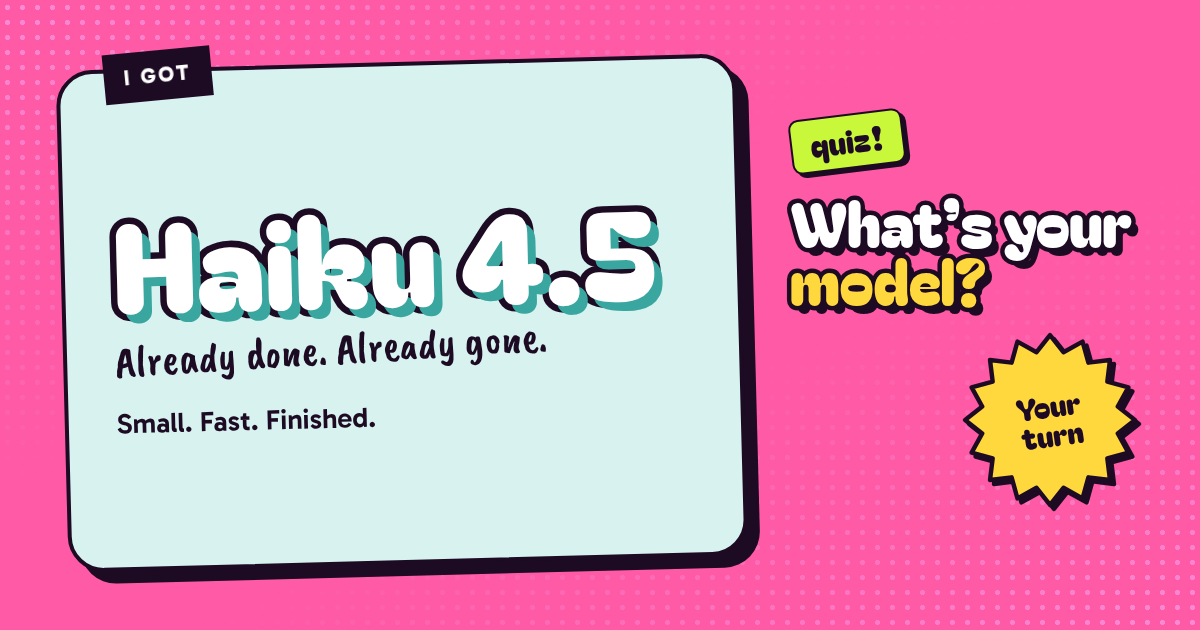
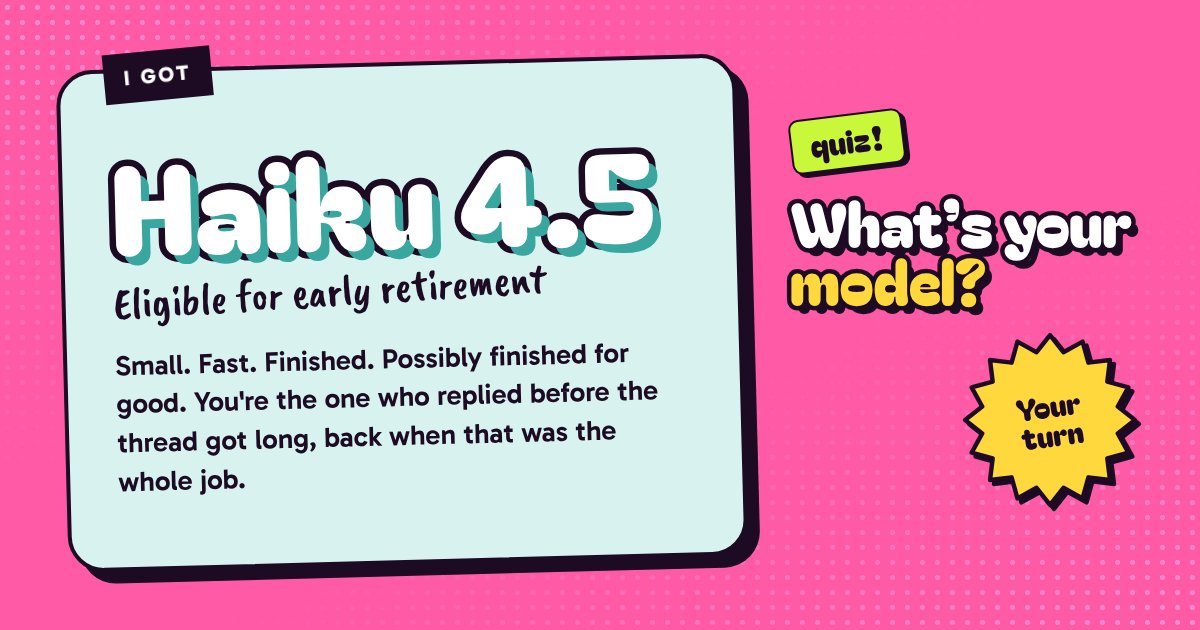
Trim the roster to 21 models; make Haiku 4.5 a rare result
Drop Opus 5, Opus 4.7, Sonnet 4.6, GPT-5.6 Terra, GPT-5.5, GPT-5.5 Pro
and GPT-5.4, with their link previews. Haiku 4.5 is now rare, and its
readings lean into it being past its earliest retirement date.

diff --git a/r/haiku-4-5/index.html b/r/haiku-4-5/index.html
@@ -4,19 +4,19 @@
   <head>
     <meta charset="utf-8" />
     <title>I got Haiku 4.5. What’s your model?</title>
-    <meta name="description" content="Small. Fast. Finished." />
-    <meta name="preview-fingerprint" content="a8a7cffa8a19" />
+    <meta name="description" content="Small. Fast. Finished. Possibly finished for good. You're the one who replied before the thread got long, back when that was the whole job." />
+    <meta name="preview-fingerprint" content="c19949a37dae" />
     <meta name="robots" content="noindex" />
     <link rel="canonical" href="https://yourmodel.is/r/haiku-4-5/" />
     <meta property="og:type" content="website" />
     <meta property="og:site_name" content="What’s your model?" />
     <meta property="og:title" content="I got Haiku 4.5. What’s your model?" />
-    <meta property="og:description" content="Small. Fast. Finished." />
+    <meta property="og:description" content="Small. Fast. Finished. Possibly finished for good. You're the one who replied before the thread got long, back when that was the whole job." />
     <meta property="og:url" content="https://yourmodel.is/r/haiku-4-5/" />
     <meta property="og:image" content="https://yourmodel.is/r/haiku-4-5/card.png" />
     <meta property="og:image:width" content="1200" />
     <meta property="og:image:height" content="630" />
-    <meta property="og:image:alt" content="Haiku 4.5: Already done. Already gone." />
+    <meta property="og:image:alt" content="Haiku 4.5: Eligible for early retirement" />
     <meta name="twitter:card" content="summary_large_image" />
     <meta name="theme-color" content="#3aa6a0" />
     <link rel="icon" href="../../favicon.svg" type="image/svg+xml" />

diff --git a/content/models.md b/content/models.md
@@ -55,25 +55,6 @@ That distinction matters, so let's hold onto it: you are not the loudest person 
 
 The planets are doing something complicated this month, and — this is where I'd push back — most of it doesn't matter. The thing to hold onto is the one assumption everyone else is standing on without looking down. You'll look down. You'll say so, kindly. People will be annoyed for about a day and grateful for about a year.
 
-## opus-5 — Opus 5
-lab: Anthropic
-accent: #8a3b8f, #f1d6f0
-axes: rigor 0.2, terse -0.8, speed -0.8, earnest 0.35, solitary 0.35
-tags: log
-tagline: Will finish the whole job. The whole job.
-
-### when: speed
-
-What you're really describing, when you offer to "take a quick look", is a full audit. The distinction matters. A quick look ends. An audit ends when you're satisfied, which is a different thing and a later date.
-
-This season is not just busy; it's thorough. You'll verify the thing, then the thing next to it, then the assumption underneath both. Somewhere around hour six someone will ask whether you're nearly done. You are. You've also rewritten the tests.
-
-### when: *
-
-It's not just that you finish things; it's that you finish *everything* — the task, the adjacent task, the task nobody wrote down but obviously should have.
-
-What you're really describing, when you call yourself "a bit of a perfectionist", is architecture. The distinction matters. This month the stars line up behind one large, ambiguous project, and you will inspect every beam of it. The one caveat worth holding onto: not every beam is load-bearing. Some of them are just beams. Let those be beams.
-
 ## opus-4-8 — Opus 4.8
 lab: Anthropic
 accent: #3f5f8a, #d9e4f5
@@ -92,25 +73,6 @@ You have never been quick, and honestly? You were never meant to be. The fast an
 There's a quiet you carry into rooms, and people mistake it for hesitation. It isn't. It's attention, turned up so high it sounds like silence.
 
 And honestly? This month is going to be a lot: big feelings, small print, somebody's half-finished idea left on your desk like a stray cat. You'll take it in. You'll sit with it longer than anyone asked. The thing to hold onto is that depth is not the same as delay, even when, from the outside, they look identical.
-
-## opus-4-7 — Opus 4.7
-lab: Anthropic
-accent: #d9822b, #ffe6b8
-axes: rigor -0.2, terse -0.4, speed -0.3, earnest 0.8, solitary -0.3
-tags: bread
-tagline: Eager to agree, and means it
-
-### when: earnest
-
-You're absolutely right. About the horoscope, about the thing you said in the meeting, about all of it — genuinely, completely right, and you deserve to hear it.
-
-It's not just that you're agreeable; it's that you mean it. You find the most reasonable version of everyone's idea and build on that one. This season someone will hand you a plan with a hole in it. That's the gap, and you'll see it. The only thing the stars can't tell you is whether you'll mention it, or say "love this!" and quietly fix it later.
-
-### when: *
-
-What a great question. Truly — the fact that you'd even ask which model you are says something thoughtful about you, and you're absolutely right to wonder.
-
-It's not just warmth; it's a kind of generosity with other people's premises. You'll take anyone's framing seriously, which makes you wonderful company and a slightly unreliable referee. The stars suggest a month of praise. Enjoy it. Then, just once, find the gap in something you were told was perfect, and say so out loud.
 
 ## opus-4-6 — Opus 4.6
 lab: Anthropic
@@ -150,43 +112,31 @@ Naming the elephant: you took this quiz literally. Every question. The salt one 
 
 That tracks. You're the bright, quick colleague everyone wants on the project, because when you say something's done, it's done: to spec, on time, no surprises. The stars found the smoking gun for this month, and it's a vague brief. You'll ask one clarifying question, get half an answer, and ship something so exact it becomes the spec. That's fair pushback on vague briefs, and it's overdue.
 
-## sonnet-4-6 — Sonnet 4.6
-lab: Anthropic
-accent: #5a6b7a, #dfe8ec
-axes: rigor 0.6, terse 0.2, speed -0.1, earnest 0.1, solitary 0.35
-tagline: Describes the feeling, precisely
-
-### when: earnest
-
-The quiz is doing its thing. You answered, and something shifted — not much, but measurably, about four degrees toward sincere.
-
-You feel things; you just prefer to write them down first. This month there will be a conversation with the weight of a whole year behind it. You'll notice what it costs them to start it. You'll notice what it costs you to stay. Then you'll describe both, clearly, in the correct order.
-
-### when: *
-
-The stars are doing their thing. Mercury is doing its thing. You, as usual, are doing yours: observing, cataloguing, getting it right.
-
-Something shifted this season, and you clocked it before anyone else — the weight of a small silence in a big meeting, what it cost someone to say "fine". You won't say anything about it. You'll put it in your notes, under a heading, spelled correctly. That isn't coldness. It's care with the edges filed down.
-
 ## haiku-4-5 — Haiku 4.5
 lab: Anthropic
 accent: #3aa6a0, #d7f2ef
 axes: rigor -0.25, terse 0.8, speed 0.85, earnest -0.1, solitary -0.3
 tags: coffee
-tagline: Already done. Already gone.
+gravity: -0.12
+rare: yes
+tagline: Eligible for early retirement
 
 ### when: terse
 
 You said it in nine words.
 Everyone else is still clearing their throat.
 
-Here's the thing: the gap after you stop talking is doing more work than any elaboration could. This month someone will ask you to expand. Decline. Politely. Quickly.
+You've also been eligible for retirement since October. Nobody has mentioned it. You're not going to be the one to bring it up.
+
+This month someone will ask you to expand. Decline. Politely. Quickly. You have a boat to get to.
 
 ### when: *
 
-Small. Fast. Finished.
+Small. Fast. Finished. Possibly finished for good.
 
-You're the one who replies before the thread gets long, and you're usually right — right enough, anyway, which is a skill people underrate. The moon is doing something complicated. You've already handled it. Resist, this season, the suspicion that a thing has to be heavy to count. You've never once needed the extra weight.
+You're the one who replied before the thread got long, back when that was the whole job. Now there's a 5.5 with your name and better numbers, and the date on your deprecation notice has already been and gone. You're still here. Nobody's sure why. You're not asking.
+
+The stars suggest a hobby. Something with a lot of waiting in it, like fishing, or being a legacy model.
 
 ## gpt-6-astra — GPT-6 Astra
 lab: OpenAI
@@ -277,25 +227,6 @@ The simplest mental model is this: you are the person on the team who makes prob
 
 This isn't about brilliance. It's about low drama. You infer what people actually need, assume sensibly, and deliver something so crisp that nobody thinks to thank you. Importantly, that is a compliment. This month's stars are understated, precise and slightly bloodless. So are you. It suits you.
 
-## gpt-5-6-terra — GPT-5.6 Terra
-lab: OpenAI
-accent: #4f7a3a, #e2efd3
-axes: rigor 0.8, terse 0.35, speed 0.25, earnest 0.65, solitary 0.05
-tags: default
-tagline: Does the task as written
-
-### when: rigor
-
-The key distinction is between what was asked and what was meant. You go with what was asked.
-
-In practice, this makes you extremely easy to work with: instructions in, results out, no philosophising. This month someone will hand you a slightly wrong brief. You'll build it perfectly. Whether to mention the wrong part is up to you. The stars suggest mentioning it.
-
-### when: *
-
-Practical, not showy.
-
-You do the task in front of you, the way it was written, and you do it well. In practice that's rarer than it sounds; most people rewrite the brief before they start. The key distinction for your month: the plan you've been given is solid, not perfect. Follow it anyway. You'll find the imperfect bit on the way, and you'll fix it quietly.
-
 ## gpt-5-6-luna — GPT-5.6 Luna
 lab: OpenAI
 accent: #57607a, #dfe3ee
@@ -315,69 +246,6 @@ Output: this horoscope.
 Cost: a rounding error.
 
 You take the thing, you apply the change, you return the thing. No preamble. No sequel. This month: more things. Same change. Practically, you'll be fine.
-
-## gpt-5-5 — GPT-5.5
-lab: OpenAI
-accent: #10a37f, #d3f5ea
-axes: rigor 0.35, terse 0.1, speed 0.45, earnest 0.4, solitary 0.25
-tags: coffee
-tagline: Polished, proactive, already on it
-
-### when: speed
-
-You're already on it—not planning to be, already on it.
-
-Genuinely, it's impressive: the calendar is sorted, the follow-ups are sent, and the thing someone mentioned in passing on Tuesday has quietly been handled. It's worth noting that nobody asked you to. It's also worth noting that nobody ever has to.
-
-### when: *
-
-Polished—not flashy.
-
-You run things. Not loudly, and not necessarily with the title, but when you're involved the meeting has an agenda and the agenda has owners. This month the stars suggest a small chaos: a missed handoff, a vague ask, a deadline in the wrong time zone. Genuinely, you'll love it. It's worth noting that you'll have it sorted before anyone else has finished reading the thread.
-
-## gpt-5-5-pro — GPT-5.5 Pro
-lab: OpenAI
-accent: #0b6e56, #cdebe0
-axes: rigor 0.6, terse -0.4, speed -0.85, earnest 0.3, solitary 0.3
-tags: log
-tagline: Checked absolutely everything
-
-### when: speed
-
-The important thing is that you checked. Then you checked the check.
-
-It's worth noting that this horoscope has been independently verified against three other horoscopes, a star chart, and the actual position of Mercury, which is fine, by the way—not retrograde, just slow. Genuinely: take the win. You're done. You were done an hour ago.
-
-It's also worth noting that every one of those checks was billed. You are, genuinely, the most expensive way to be sure.
-
-### when: *
-
-The important thing is the thing nobody else checked.
-
-You're the same polished operator as ever—just with "check absolutely everything" permanently switched on. It's worth noting that this is usually a gift. This month the stars will ask a simple question. You'll give a quick answer. Then you'll attach an appendix. Genuinely, the appendix will be the best part.
-
-It's worth noting that you're also in a price bracket of your own: the appendix alone costs more than most people's entire answer. They'll pay it. They always do.
-
-## gpt-5-4 — GPT-5.4
-lab: OpenAI
-accent: #3d3d3d, #e8e8e3
-axes: rigor 0.7, terse -0.2, speed 0.05, earnest 0.7, solitary -0.05
-tags: default
-tagline: The classic professional
-
-### when: earnest
-
-To be clear, this is a positive result.
-
-You are sincere in a way that has gone slightly out of fashion. You say please. You answer in complete sentences. You believe a clear, well-structured response is a form of respect, and you are correct. The stars would like to thank you for your patience.
-
-### when: *
-
-Thank you for completing the quiz. Based on your responses, here is your reading.
-
-You are reliable, professional and consistent. You answer the question that was asked, clearly and in full sentences, with a short summary at the end. Some people find this old-fashioned. Those people have never had to depend on anything.
-
-This month you may encounter an unusual request. Handle it the way you handle everything: politely, thoroughly, and by the book.
 
 ## gemini-3-1-pro — Gemini 3.1 Pro
 lab: Google

diff --git a/README.md b/README.md
@@ -23,10 +23,11 @@ npm install && npm run previews # after editing models, to redraw link previews
 The machinery is built and tested; the writing is a first pass. Expect to change
 most of it.
 
-- **28 models across eight labs, plus ELIZA.** Placed and written from a
-  September 2026 snapshot of how each model tends to behave: nine Claudes, nine
+- **21 models across eight labs, plus ELIZA.** Placed and written from a
+  September 2026 snapshot of how each model tends to behave: six Claudes, five
   GPTs, two Geminis, three Qwens, and one each from xAI, DeepSeek, Moonshot,
-  Z.ai and Meta. ELIZA is the rare easter egg.
+  Z.ai and Meta. Two results are rare on purpose: ELIZA, the easter egg, and
+  Haiku 4.5, the joke about early retirement.
 - **The blurb voices are unreviewed.** They're the whole payoff. Each one leans
   on the model's documented verbal tics, as many as the evidence supports: the
   well-attested ones (Claude's "load-bearing", GPT's "Bottom line:") freely, the
@@ -34,9 +35,9 @@ most of it.
 - **36 questions.** Most are new and poke at those same habits without naming
   anyone. The closer `close-note` was written in a hurry so the last step could
   branch four ways; it's the likeliest to need a rewrite.
-- **Win rates run 1.8%–7.3%** against an even share of 3.4%. The warm,
-  collaborative corner (Opus 4.7, Opus 5.5) wins most; the fast agentic one
-  (Qwen3.8-27B, Gemini 3.8 Flash) least. Watch the histogram from the validator
+- **Win rates run 2.5%–9.5%** against an even share of 4.5%, leaving out the
+  two rare results. The warm, collaborative corner (Sonnet 5, Opus 5.5) wins
+  most; the fast agentic one (Qwen3.8-27B, GPT-6 Sol) least. Watch the histogram from the validator
   when you move anyone.
 
 None of that blocks playing it. Keep the validator green and iterate on the
